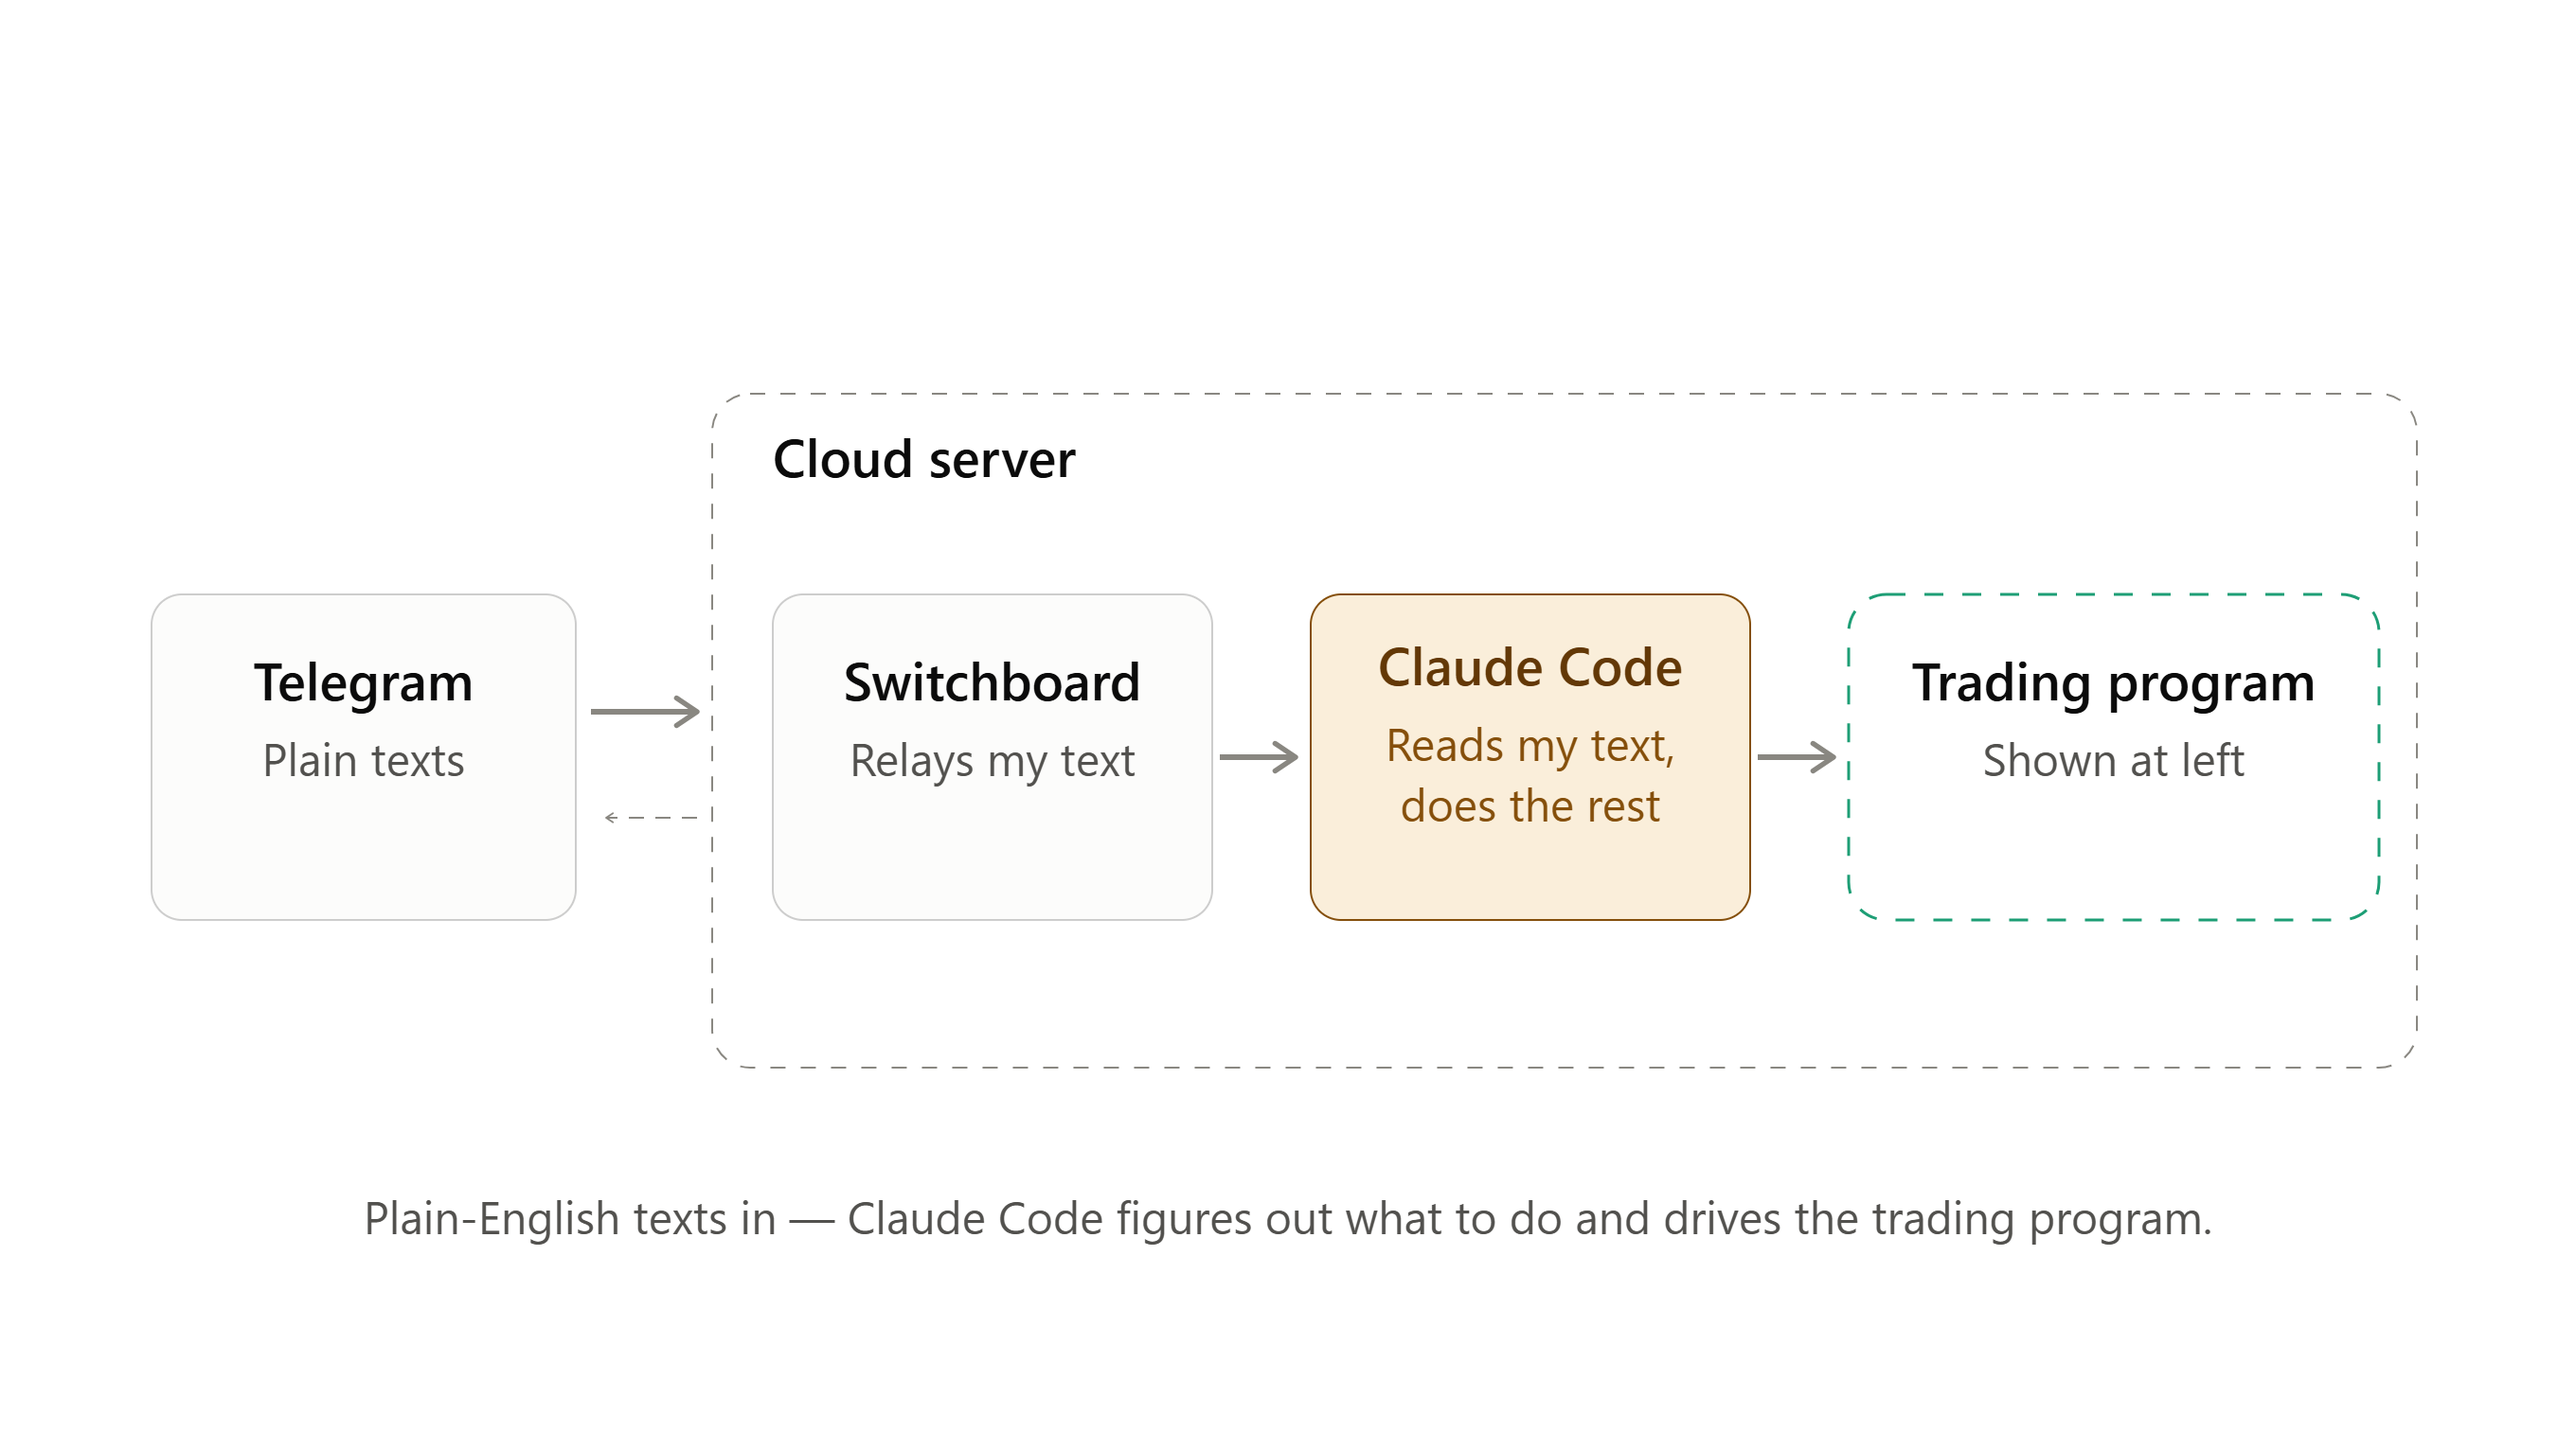
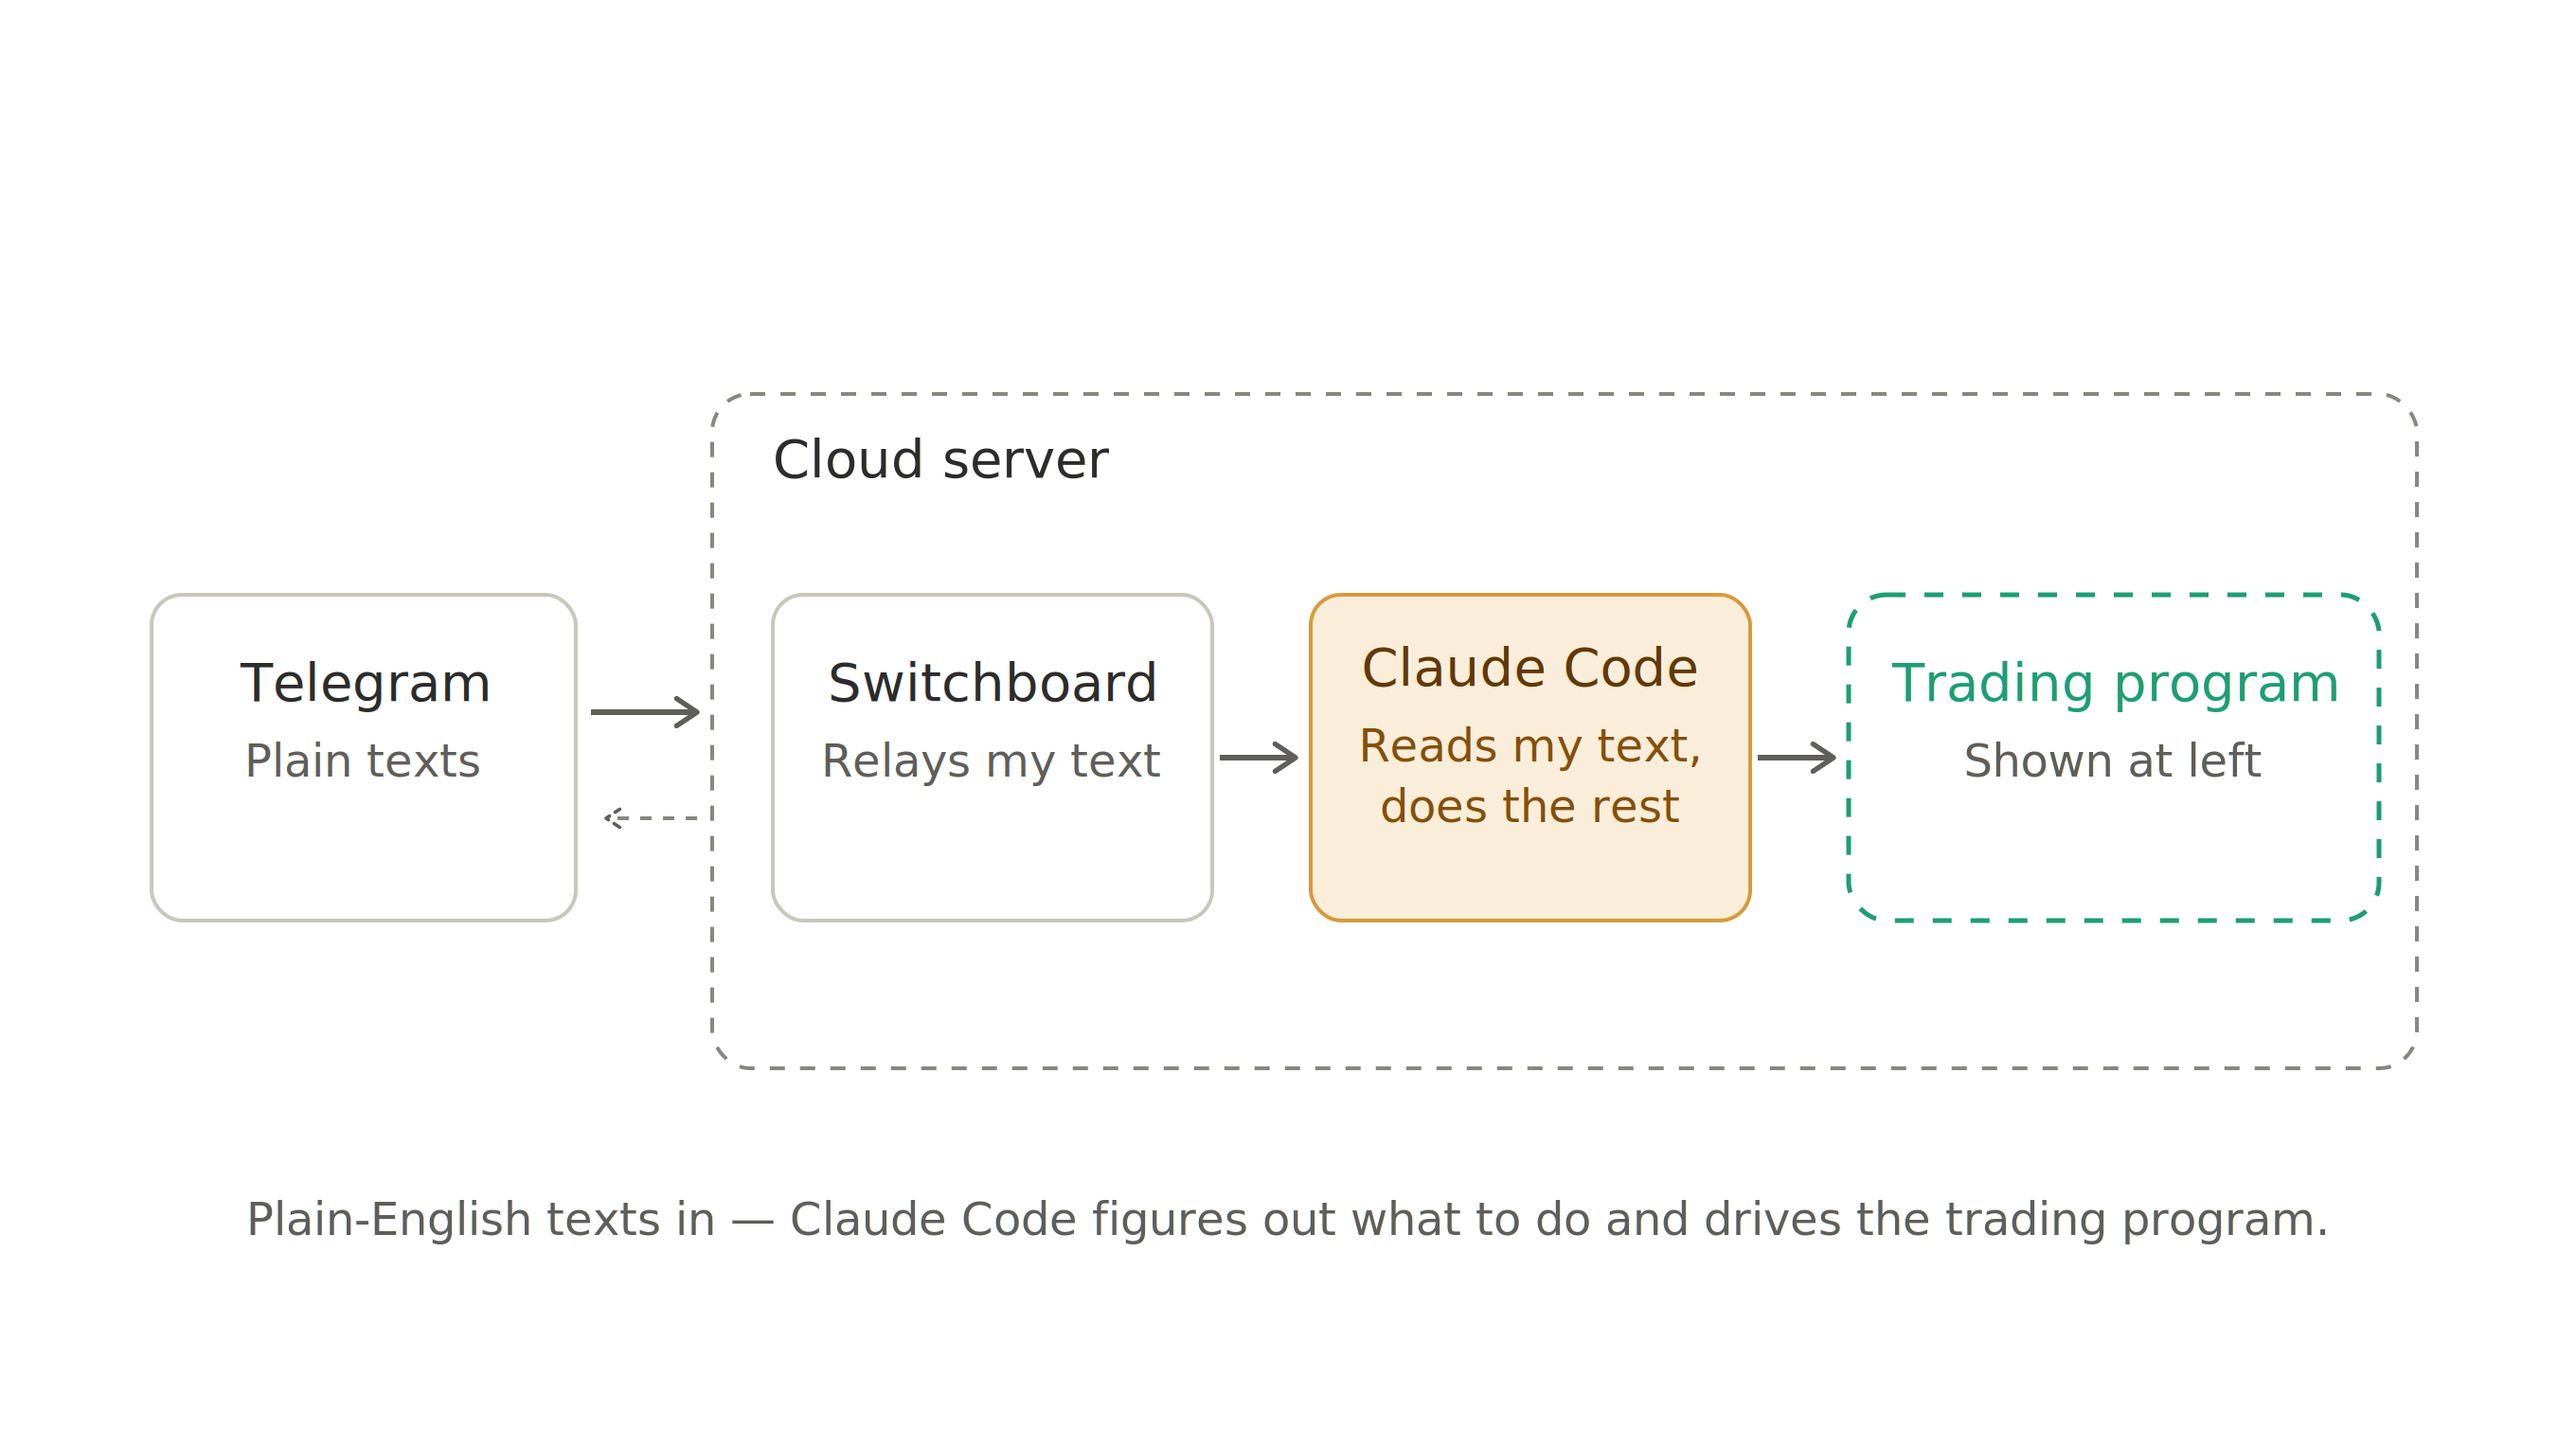
kmm save

diff --git a/content/work/kmm.md b/content/work/kmm.md
@@ -97,7 +97,7 @@ The problem no longer became about market making to capture spread. My goal was 
 ::
 
 ::title-block{subtitle="How it's built and operates"}
-My Market Making Strategy
+My Bot
 ::
 
 ::text-block
@@ -143,10 +143,18 @@ Confirming an event's general probability is difficult to do with Python alone, 
 <br>One asyncio task per market. Each execution instance owns one market end-to-end: its resting orders, its position, its per-market safety, and its cycle loop. The loop checks safety, fetches new orderbook information, makes decisions based on strategy, and logs metrics.
 ::
 
+::title-block{subtitle="and next steps"}
+Metrics and Results
+::
+
 ::side-note
 **TODOTDOTODOTDOTODTO**<br><br>
- Results, with the ceiling attached (~300 words)
 
-Numbers in the right units: markets quoted, uptime, fills survived, incidents contained; the P&L stated once, plainly.
+<br><br>
+
+ Results, with the ceiling attached (~300 words) Numbers in the right units: markets quoted, uptime, fills survived, incidents contained; the P&L stated once, plainly.
 Then the ceiling: pool sizes, concentration limits, thin supply of safe markets. "Capital isn't the bottleneck; safe markets are."
+
+<br><br>
+Next steps
 ::
